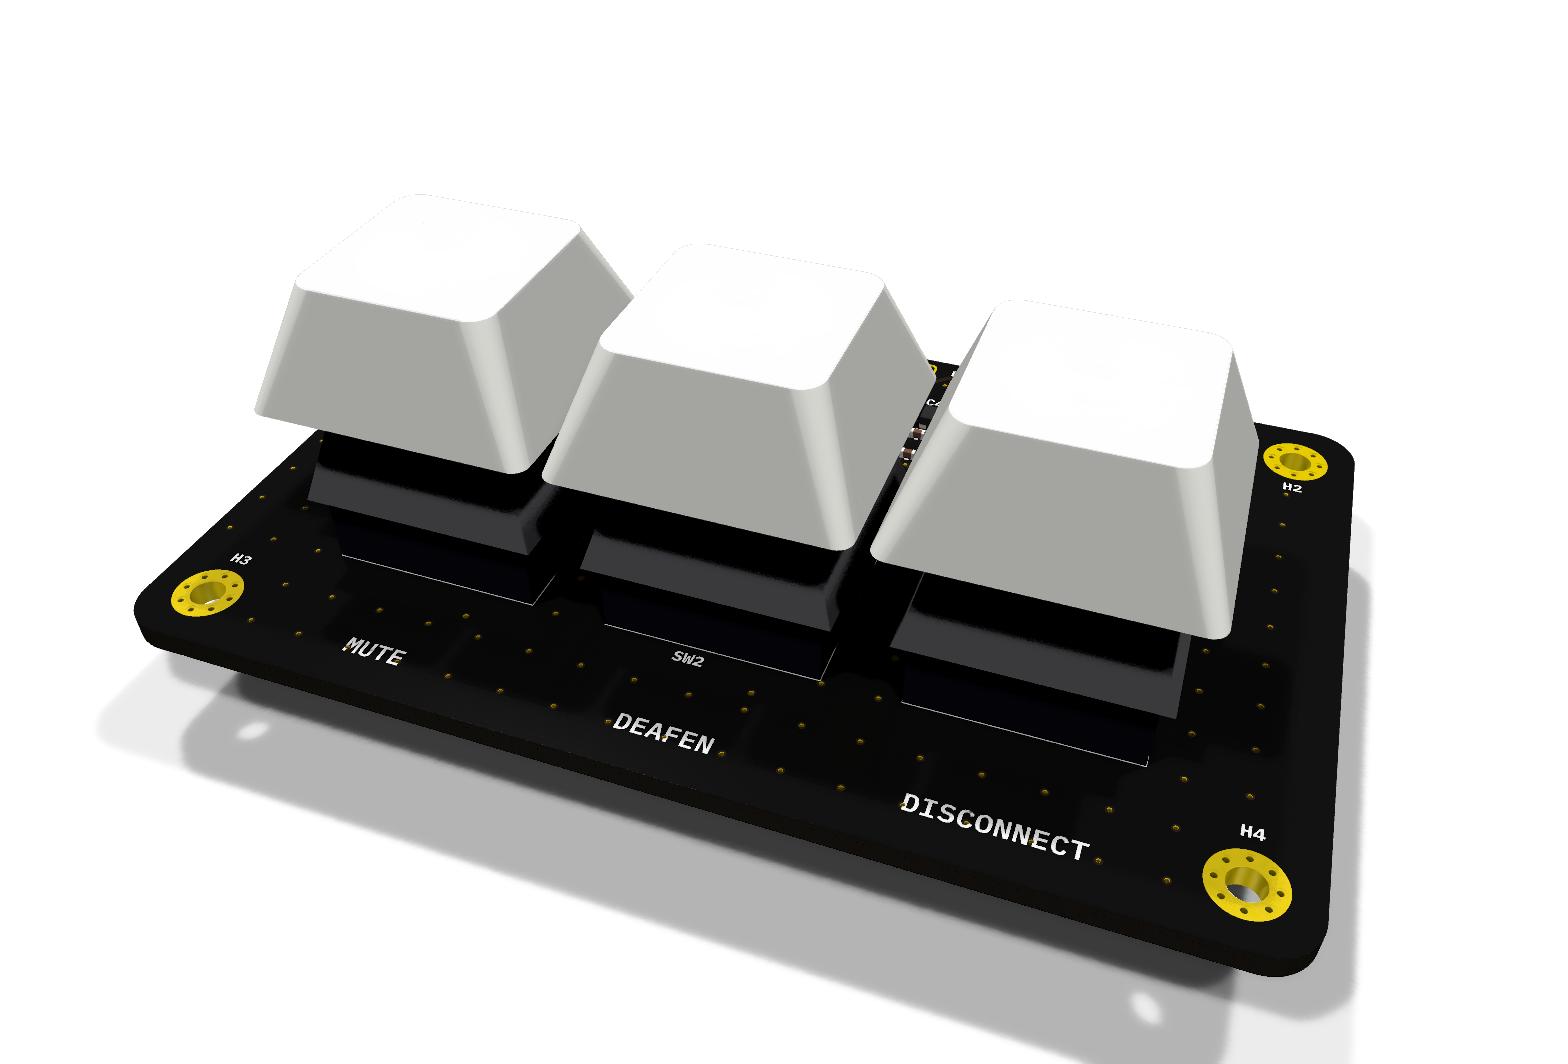
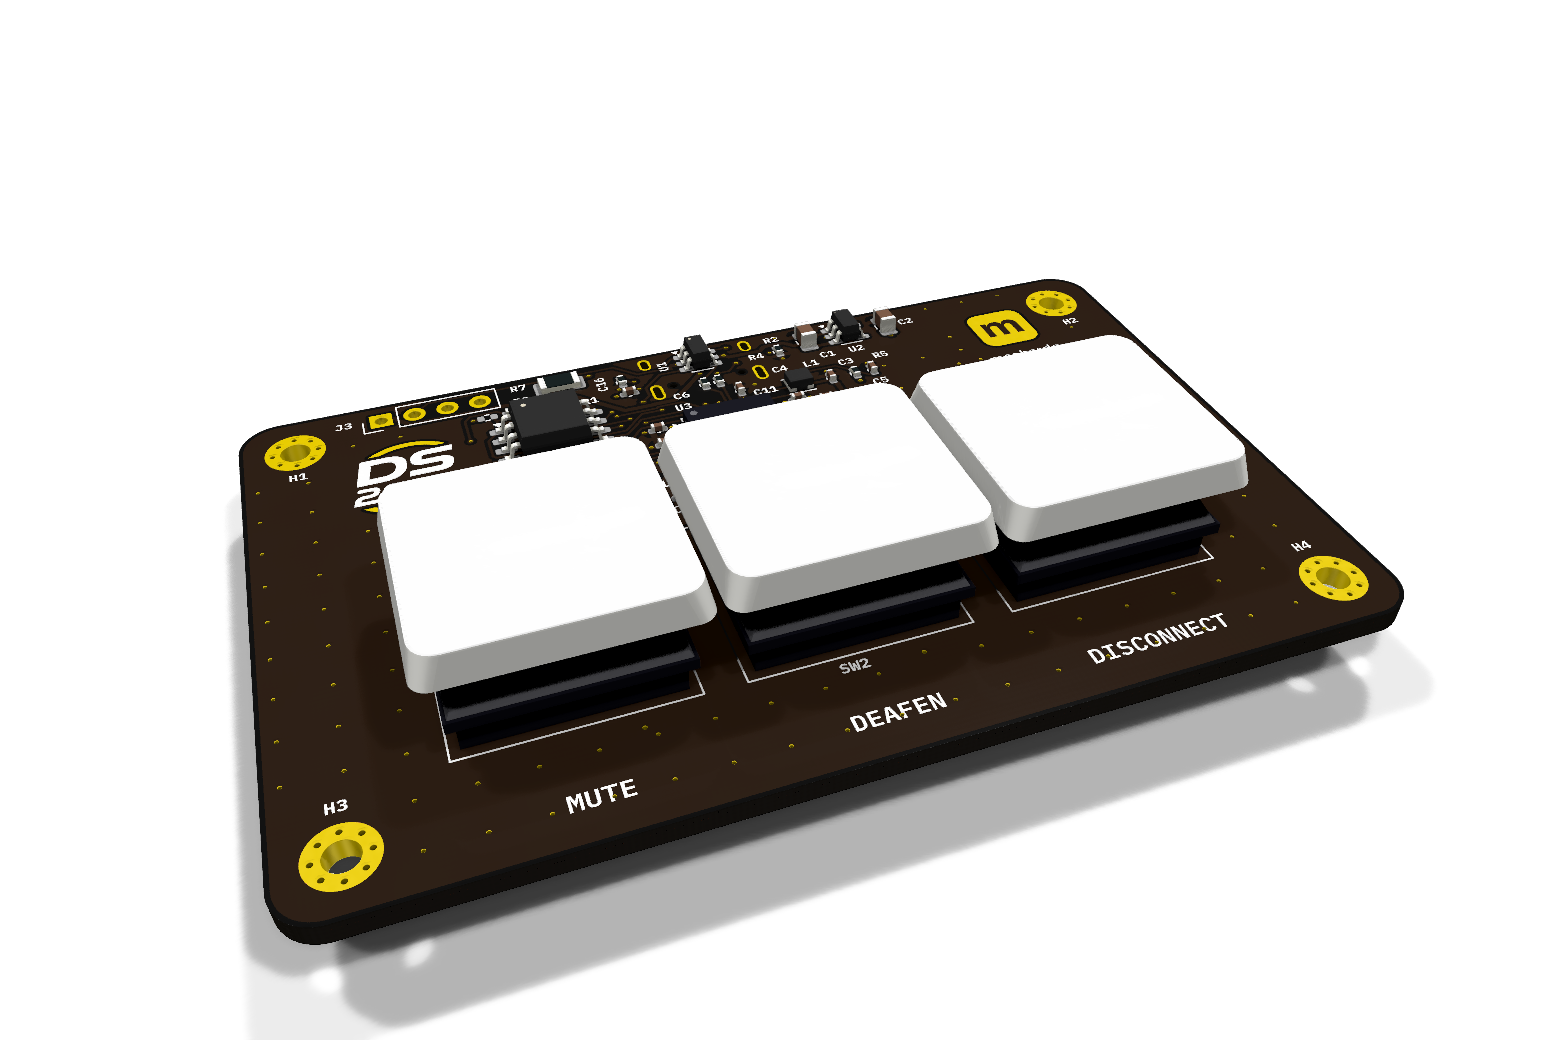
feat: concept B flat and on a 7 degree wedge, with the Choc V1 board
- board model re-exported from DS2000-PCB#19 (Kailh Choc V1, 18 mm pitch, keys at Y -7)
- mechanical reference and requirements updated: concept B decided, one tray for a flat
  version on feet and a tilted one on a separate magnet-held wedge
- concept scripts (build123d + pyvista), STEP sketches of the tray and wedge, comparison render

diff --git a/tools/concepts/concepts.py b/tools/concepts/concepts.py
@@ -1,0 +1,142 @@
+"""Three flat enclosure concepts around the DS2000 rev A board, rendered for comparison.
+
+Axes as pcb/DS2000-PCB-revA.step: origin at the board centre on its bottom face, +Y to the back
+(USB-C), Z up; board top at Z = 1.6.
+"""
+import os, sys
+import numpy as np
+import pyvista as pv
+from build123d import (Location, Box, BuildPart, Cylinder, Locations, Mode, Pos, RectangleRounded, Plane,
+                       extrude, import_step, chamfer, fillet, Axis, Compound, export_step)
+
+HERE = os.path.dirname(os.path.abspath(__file__))
+OUT = os.path.join(HERE, "out"); os.makedirs(OUT, exist_ok=True)
+HOLES = [(-32, 19), (32, 19), (-32, -19), (32, -19)]
+FLOOR_Z, POCKET_Z = -6.5, -4.5                     # tray bottom, pocket floor (4.5 mm under the board)
+
+def slab(w, h, r, z0, z1):
+    return Pos(0, 0, z0) * extrude(RectangleRounded(w, h, r), amount=z1 - z0)
+
+def bosses_and_usb(tray, top_z=0.0):
+    for x, y in HOLES:
+        tray += Pos(x, y, POCKET_Z) * Cylinder(3.0, top_z - POCKET_Z, align=None) \
+            if False else Pos(x, y, (POCKET_Z + top_z) / 2) * Cylinder(3.0, top_z - POCKET_Z)
+        tray -= Pos(x, y, top_z - 2.0) * Cylinder(1.6, 4.0)          # M2 heat-set insert
+    tray -= Pos(0, 22.0, -2.0) * Box(13.0, 8.0, 7.0)                 # USB-C plug and receptacle
+    for x, y in [(-27, -14), (27, -14), (-27, 14), (27, 14)]:        # rubber feet
+        tray -= Pos(x, y, FLOOR_Z + 0.3) * Cylinder(4.0, 0.6)
+    return tray
+
+def concept_a():
+    """Monolith: the tray follows the board outline exactly."""
+    t = slab(72, 46, 3, FLOOR_Z, 0.0)
+    t = chamfer(t.edges().group_by(Axis.Z)[0], 0.8)                  # soft bottom edge, outline only
+    t -= slab(68, 42, 1.2, POCKET_Z, 0.1)
+    return bosses_and_usb(t)
+
+def concept_b():
+    """Frame: a 3 mm bezel with a lip 0.6 mm above the board, which sits recessed in it."""
+    lip = 1.6 + 0.6
+    t = slab(78, 52, 6, FLOOR_Z, lip)
+    t = fillet(t.edges().group_by(Axis.Z)[-1], 1.0)                  # rounded top of the frame
+    t = chamfer(t.edges().group_by(Axis.Z)[0], 0.8)
+    t -= slab(72.4, 46.4, 3.2, 0.0, lip + 0.1)                         # board seat
+    t -= slab(68, 42, 1.2, POCKET_Z, 0.1)
+    t = bosses_and_usb(t)
+    t -= Pos(0, 25.0, 0.0) * Box(13.0, 6.0, 5.0)                     # USB through the frame
+    return t
+
+def concept_c():
+    """Floating on columns: a smoked base smaller than the board, four round standoffs at the
+    corners, the board hovering above with its underside (and debug pads) in view."""
+    base_top = FLOOR_Z + 3.0
+    t = slab(60, 34, 4, FLOOR_Z, base_top)
+    t = fillet(t.edges().group_by(Axis.Z)[-1], 1.0)
+    for x, y in HOLES:
+        t += Pos(x, y, (base_top - 1.0 + 0.0) / 2) * Cylinder(3.2, 0.0 - (base_top - 1.0))
+        t += Pos(x, y, base_top - 1.5) * Cylinder(4.2, 3.0)          # foot under each column
+        t -= Pos(x, y, -2.0) * Cylinder(1.6, 4.0)                    # M2 heat-set insert
+    for x, y in [(-22, -10), (22, -10), (-22, 10), (22, 10)]:
+        t -= Pos(x, y, FLOOR_Z + 0.3) * Cylinder(4.0, 0.6)
+    return t
+
+# ---------------------------------------------------------------- board meshes
+GOLD, BLACK, WHITE = (0.86, 0.70, 0.30), (0.06, 0.06, 0.07), (0.96, 0.96, 0.96)
+def board_meshes(step):
+    s = import_step(step)
+    out = []
+    def colour_for(label, col):
+        if label in ("DS2000_copper", "DS2000_pad", "DS2000_via"):
+            return GOLD
+        if label == "DS2000_PCB":
+            return (0.12, 0.12, 0.12)
+        if label == "DS2000_soldermask":
+            return BLACK
+        if label == "DS2000_silkscreen":
+            return WHITE
+        if col is None:
+            return (0.5, 0.5, 0.5)
+        rgba = col.to_tuple() if hasattr(col, "to_tuple") else tuple(col)
+        return tuple(rgba[:3])
+    def walk(n, label, loc):
+        lab = getattr(n, "label", "") or label
+        ch = getattr(n, "children", [])
+        if ch:
+            for c in ch:                    # instanced parts: the placement lives on the parent
+                walk(c, lab, loc * n.location)
+            return
+        col = getattr(n, "color", None)
+        for sol in (n.solids() or [n]):
+            out.append((mesh_of(loc * sol), colour_for(lab, col)))
+    walk(s, "", Location())
+    return out
+
+def mesh_of(shape, tol=0.02):
+    verts, tris = shape.tessellate(tol, 0.3)
+    if not tris:
+        return None
+    pts = np.array([[v.X, v.Y, v.Z] for v in verts])
+    faces = np.hstack([[3, *t] for t in tris])
+    return pv.PolyData(pts, faces)
+
+TRAY_STYLE = {
+    "A": dict(color=(0.10, 0.10, 0.11), opacity=1.0, specular=0.3),
+    "B": dict(color=(0.93, 0.92, 0.89), opacity=1.0, specular=0.2),
+    "C": dict(color=(0.20, 0.21, 0.23), opacity=0.55, specular=0.6),
+}
+VIEWS = {
+    "iso": dict(position=(-75, -120, 165), focal=(0, 2, 2), up=(0, 0, 1)),
+    "back": dict(position=(70, 150, 75), focal=(0, 0, 0), up=(0, 0, 1)),
+    "side": dict(position=(-190, -40, 25), focal=(0, 0, 5), up=(0, 0, 1)),
+}
+
+def screws():
+    return [Pos(x, y, 1.6 + 0.65) * Cylinder(1.9, 1.3) for x, y in HOLES]
+
+def render(name, tray, board):
+    tray_mesh = mesh_of(tray, 0.03)
+    for view, cam in VIEWS.items():
+        pl = pv.Plotter(off_screen=True, window_size=(1600, 1050))
+        pl.set_background((0.93, 0.93, 0.94), top=(0.82, 0.83, 0.86))
+        for m, c in board:
+            if m is not None:
+                pl.add_mesh(m, color=c, smooth_shading=True, specular=0.25)
+        for sc in screws():
+            pl.add_mesh(mesh_of(sc), color=(0.7, 0.7, 0.72), smooth_shading=True, specular=0.8)
+        pl.add_mesh(tray_mesh, smooth_shading=True, **TRAY_STYLE[name])
+        pl.enable_anti_aliasing("ssaa")
+        pl.camera.position, pl.camera.focal_point, pl.camera.up = cam["position"], cam["focal"], cam["up"]
+        pl.camera.view_angle = 24
+        pl.screenshot(os.path.join(OUT, f"{name}_{view}.png"))
+        pl.close()
+
+if __name__ == "__main__":
+    board = board_meshes(os.path.join(HERE, "pcb_render.step"))
+    print("board meshes", len(board))
+    for name, fn in [("A", concept_a), ("B", concept_b), ("C", concept_c)]:
+        tray = fn()
+        bb = tray.bounding_box()
+        print(name, f"{bb.size.X:.1f} x {bb.size.Y:.1f} x {bb.size.Z:.1f} mm, volume {tray.volume/1000:.1f} cm3")
+        export_step(tray, os.path.join(OUT, f"tray_{name}.step"))
+        render(name, tray, board)
+    print("done")

diff --git a/tools/concepts/concept_b_versions.py b/tools/concepts/concept_b_versions.py
@@ -1,0 +1,90 @@
+"""Concept B (frame) in two versions around the Choc board: flat on the desk, and on a separate 7 deg
+wedge. The same tray serves both: it has rubber-foot recesses for the flat version and 6 x 1.5 mm
+magnet pockets under the corner bosses, matched by pockets in the wedge's top face.
+"""
+import math, os, sys
+import numpy as np
+import pyvista as pv
+from build123d import Pos, Box, Cylinder, Polyline, make_face, extrude, Plane, export_step
+sys.path.insert(0, os.path.dirname(os.path.abspath(__file__)))
+from concepts import (slab, concept_b, board_meshes, mesh_of, screws, HOLES, FLOOR_Z, OUT, HERE)
+
+TILT = 7.0
+W, D = 78.0, 52.0
+H_FRONT = 3.0
+H_BACK = H_FRONT + D * math.tan(math.radians(TILT))
+MAGNET = (3.1, 1.6)                     # pocket radius, depth: 6 x 1.5 mm disc magnets
+
+def tray():
+    t = concept_b()
+    for x, y in HOLES:
+        t -= Pos(x, y, FLOOR_Z + MAGNET[1] / 2 - 0.01) * Cylinder(*MAGNET)
+    return t
+
+def tilt_matrix():
+    """Tray frame -> desk frame: the tray's front-bottom edge rests on the wedge's front-top edge."""
+    a = math.radians(TILT)
+    rx = np.array([[1, 0, 0, 0], [0, math.cos(a), -math.sin(a), 0], [0, math.sin(a), math.cos(a), 0], [0, 0, 0, 1]])
+    t1 = np.eye(4); t1[:3, 3] = (0, D / 2, -FLOOR_Z)
+    t2 = np.eye(4); t2[:3, 3] = (0, -D / 2, H_FRONT)
+    return t2 @ rx @ t1
+
+def wedge():
+    prof = make_face(Polyline((-D / 2, 0), (D / 2, 0), (D / 2, H_BACK), (-D / 2, H_FRONT), close=True))
+    w = extrude(Plane.YZ.offset(-W / 2) * prof, amount=W)
+    w = w & slab(W, D, 6, -1, H_BACK + 1)
+    m = tilt_matrix()
+    for x, y in HOLES:                  # magnet pockets under the tray's, normal to the sloped face
+        p = m @ np.array([x, y, FLOOR_Z, 1.0])
+        from build123d import Location
+        loc = Location((p[0], p[1], p[2]), (TILT, 0, 0))
+        w -= loc * Pos(0, 0, -MAGNET[1] / 2 + 0.01) * Cylinder(*MAGNET)
+    for x, y in [(-30, -19), (30, -19), (-30, 19), (30, 19)]:
+        w -= Pos(x, y, 0.3) * Cylinder(4.0, 0.6)        # rubber feet
+    return w
+
+VIEWS = {
+    "iso": dict(position=(-80, -125, 175), focal=(0, 2, 4), up=(0, 0, 1)),
+    "side": dict(position=(-200, -10, 18), focal=(0, 0, 4), up=(0, 0, 1)),
+    "back": dict(position=(75, 155, 85), focal=(0, 0, 2), up=(0, 0, 1)),
+}
+TRAY_COL, WEDGE_COL = (0.93, 0.92, 0.89), (0.30, 0.31, 0.33)
+
+def render(name, board, tray_mesh, wedge_mesh=None, m=None):
+    for view, cam in VIEWS.items():
+        pl = pv.Plotter(off_screen=True, window_size=(1600, 1050))
+        pl.set_background((0.93, 0.93, 0.94), top=(0.82, 0.83, 0.86))
+        def add(mesh, **kw):
+            if mesh is None:
+                return
+            mesh = mesh.copy()
+            if m is not None:
+                mesh = mesh.transform(m, inplace=False)
+            elif wedge_mesh is None:
+                mesh = mesh.translate((0, 0, -FLOOR_Z), inplace=False)      # flat: tray on the desk at z=0
+            pl.add_mesh(mesh, smooth_shading=True, **kw)
+        for mm_, c in board:
+            add(mm_, color=c, specular=0.25)
+        for sc in screws():
+            add(mesh_of(sc), color=(0.7, 0.7, 0.72), specular=0.8)
+        add(tray_mesh, color=TRAY_COL, specular=0.2)
+        if wedge_mesh is not None:
+            pl.add_mesh(wedge_mesh, color=WEDGE_COL, smooth_shading=True, specular=0.3)
+        pl.add_mesh(pv.Plane(center=(0, 0, -0.05), i_size=400, j_size=400), color=(0.86, 0.86, 0.87))
+        pl.enable_anti_aliasing("ssaa")
+        pl.camera.position, pl.camera.focal_point, pl.camera.up = cam["position"], cam["focal"], cam["up"]
+        pl.camera.view_angle = 24
+        pl.screenshot(os.path.join(OUT, f"{name}_{view}.png"))
+        pl.close()
+
+if __name__ == "__main__":
+    board = board_meshes(os.path.join(HERE, sys.argv[1] if len(sys.argv) > 1 else "pcb_render.step"))
+    t = tray(); w = wedge()
+    tb, wb = t.bounding_box(), w.bounding_box()
+    print(f"tray {tb.size.X:.1f} x {tb.size.Y:.1f} x {tb.size.Z:.1f}, wedge {wb.size.X:.1f} x {wb.size.Y:.1f}, "
+          f"{H_FRONT:.1f} -> {H_BACK:.1f} mm")
+    export_step(t, os.path.join(OUT, "B_tray.step")); export_step(w, os.path.join(OUT, "B_wedge.step"))
+    tm = mesh_of(t, 0.03)
+    render("B_flat", board, tm)
+    render("B_tilt", board, tm, mesh_of(w, 0.03), tilt_matrix())
+    print("done")

diff --git a/pcb/README.md b/pcb/README.md
@@ -1,13 +1,14 @@
 # DS2000-PCB rev A — mechanical reference
 
 `DS2000-PCB-revA.step` is the populated rev A board, exported from
-[DS2000-PCB](https://github.com/Mechanix97/DS2000-PCB) at commit `b65971f` (PR #18, rev A merged) with:
+[DS2000-PCB](https://github.com/Mechanix97/DS2000-PCB) at commit `045842b` (DS2000-PCB#19, rev A with
+Kailh Choc V1 keys; re-export and update this line once it is merged) with:
 
 ```sh
 kicad-cli pcb export step --user-origin 100x94mm --subst-models -o DS2000-PCB-revA.step DS2000.kicad_pcb
 ```
 
-It includes every part, the three MX switches with a 1u keycap on each, and the USB-C receptacle
+It includes every part, the three Choc V1 switches with an MBK-style keycap on each, and the USB-C receptacle
 underneath. Re-export it whenever the board's outline, holes or parts change, and note the PCB
 commit here: the enclosure and the board share these numbers.
 
@@ -45,13 +46,14 @@ Drill 2.2 mm, copper ring 4.4 mm on both faces: keep screw heads and standoffs w
 
 | Key | Centre X | Centre Y |
 |---|---|---|
-| MUTE | −19.05 | −6.0 |
-| DEAFEN | 0 | −6.0 |
-| DISCONNECT | +19.05 | −6.0 |
+| MUTE | −18 | −7.0 |
+| DEAFEN | 0 | −7.0 |
+| DISCONNECT | +18 | −7.0 |
 
-- Cherry MX, PCB-mounted, no plate: the switch housing sits on the board's top face
-- keycap: 18 × 18 mm at the base, top at **Z ≈ 21.3** (DSA/XDA-like profile in the model; real
-  keycaps vary), 4 mm of travel
+- Kailh Choc V1 (low profile), soldered, no plate: the switch housing sits on the board's top face
+  (13.8 mm lower housing, 15 mm flange 2.2 mm up, housing top at Z ≈ 6.6)
+- keycap: MBK-style, 17.5 × 16.5 mm, 18 mm pitch, top at **Z ≈ 10.3** (1.6 board + ~8.7; real
+  caps vary by a few tenths), 3 mm of travel
 - the keys are fully exposed: nothing of the enclosure should rise above the board's top face
   within a keycap's footprint plus ~1 mm
 
@@ -60,8 +62,8 @@ Drill 2.2 mm, copper ring 4.4 mm on both faces: keep screw heads and standoffs w
 | Item | Where | Below the board (Z) |
 |---|---|---|
 | USB-C receptacle | X −4.47…+4.47, Y +16.9…+24.2 (face 1.2 mm past the back edge) | 0 … **−3.35** |
-| MX switch pins | under each key | 0 … −1.8 |
-| SK6812MINI-E ×2 | under MUTE and DEAFEN (X −19.05 and 0, Y −11.1) | flush |
+| Choc switch pins and posts | under each key | 0 … −3.0 (centre post Ø3.4, side posts Ø1.9) |
+| SK6812MINI-E ×2 | under MUTE and DEAFEN (X −18 and 0, Y −11.7) | flush |
 | Debug pads (SWD, BOOT, RST) | X +18…+23.1, Y +13…+17 | flat pads |
 | USB wire holes (J3) | X −25.5…−17.9, Y +21 | through-holes |
 

diff --git a/docs/requirements.md b/docs/requirements.md
@@ -12,18 +12,28 @@ decisions for the enclosure itself.
   long as it stays below the board's top face
 - **Clearance underneath**: ≥ 4 mm pocket; USB-C cut-out in the back wall, ≥ 13 × 7 mm, centred on
   the receptacle
-- **Height**: keycap tops sit ~21.3 mm above the board's bottom face; the tray adds to that
+- **Height**: keycap tops sit ~10.3 mm above the board's bottom face (Choc V1 + MBK); the tray adds to that
+
+## Decided
+
+- **Concept B, frame**: a bezel around the board with a lip 0.6 mm above its top face; the board sits
+  recessed in it on four bosses (M2 into heat-set inserts). See [`concept-b-versions.png`](concept-b-versions.png)
+- **Keys**: Kailh Choc V1 low profile with flat MBK-style caps, after the Chudx Nano 100 (DS2000-PCB#19)
+- **Two versions of B, same tray**:
+  - **flat**: the tray on rubber feet; the USB-C cable leaves straight back, level with the desk
+  - **tilted**: the tray on a separate wedge, 7°, 3.0 mm at the front and 9.4 mm at the back, held by
+    four 6 × 1.5 mm disc magnets under the corner bosses, with pockets matched in the wedge. The USB-C
+    stays at the back and the cable leaves at 7°; a cable soldered to J3 is the alternative
 
 ## To decide
 
 - [ ] Printer and process (FDM / resin), material (PLA, PETG, ASA…)
-- [ ] Tray height under the board, and whether the device sits flat or tilts towards the user
-- [ ] Edge style: flush with the board, a visible lip/bezel around it, or a layered look
-- [ ] Screws: M2 into heat-set inserts (recommended for repeat assembly) or self-tapping into plastic
+- [ ] Tray height under the board (6.5 mm in the concept: 4.5 mm pocket + 2 mm floor)
+- [ ] Screws: M2 into heat-set inserts (as in the concept) or self-tapping into plastic
 - [ ] Weight and grip: rubber feet, a steel or lead weight in the pocket (keys get pressed hard during
       calls)
 - [ ] Access to the debug pads: take the board out, or a window in the floor
-- [ ] Keycaps: profile and whether mute/deafen are translucent (their LEDs shine through the switch)
+- [ ] Keycaps: MBK colour, and whether mute/deafen are translucent (their LEDs shine through the switch)
 - [ ] Colour and finish of the tray, to go with the black-and-gold board
 
 ## Deliverables

diff --git a/tools/concepts/README.md b/tools/concepts/README.md
@@ -1,0 +1,18 @@
+# Concept models and renders
+
+Parametric sketches (build123d) of the enclosure concepts in #1, rendered with pyvista. They are for
+choosing a direction and fitting the board, not the final design, which is modelled in Fusion 360.
+
+| Script | What |
+|---|---|
+| `concepts.py` | The three first concepts: A monolith, B frame, C floating |
+| `concept_b_versions.py` | Concept B (chosen) flat and on a separate 7° wedge; exports `B_tray.step` and `B_wedge.step` |
+
+The renders need a board STEP with the copper, mask and silkscreen:
+
+```sh
+kicad-cli pcb export step --user-origin 100x94mm --subst-models --include-tracks --include-pads \
+  --include-zones --include-silkscreen --include-soldermask -o tools/concepts/pcb_render.step DS2000.kicad_pcb
+pip install build123d pyvista
+python tools/concepts/concept_b_versions.py pcb_render.step     # writes tools/concepts/out/
+```
